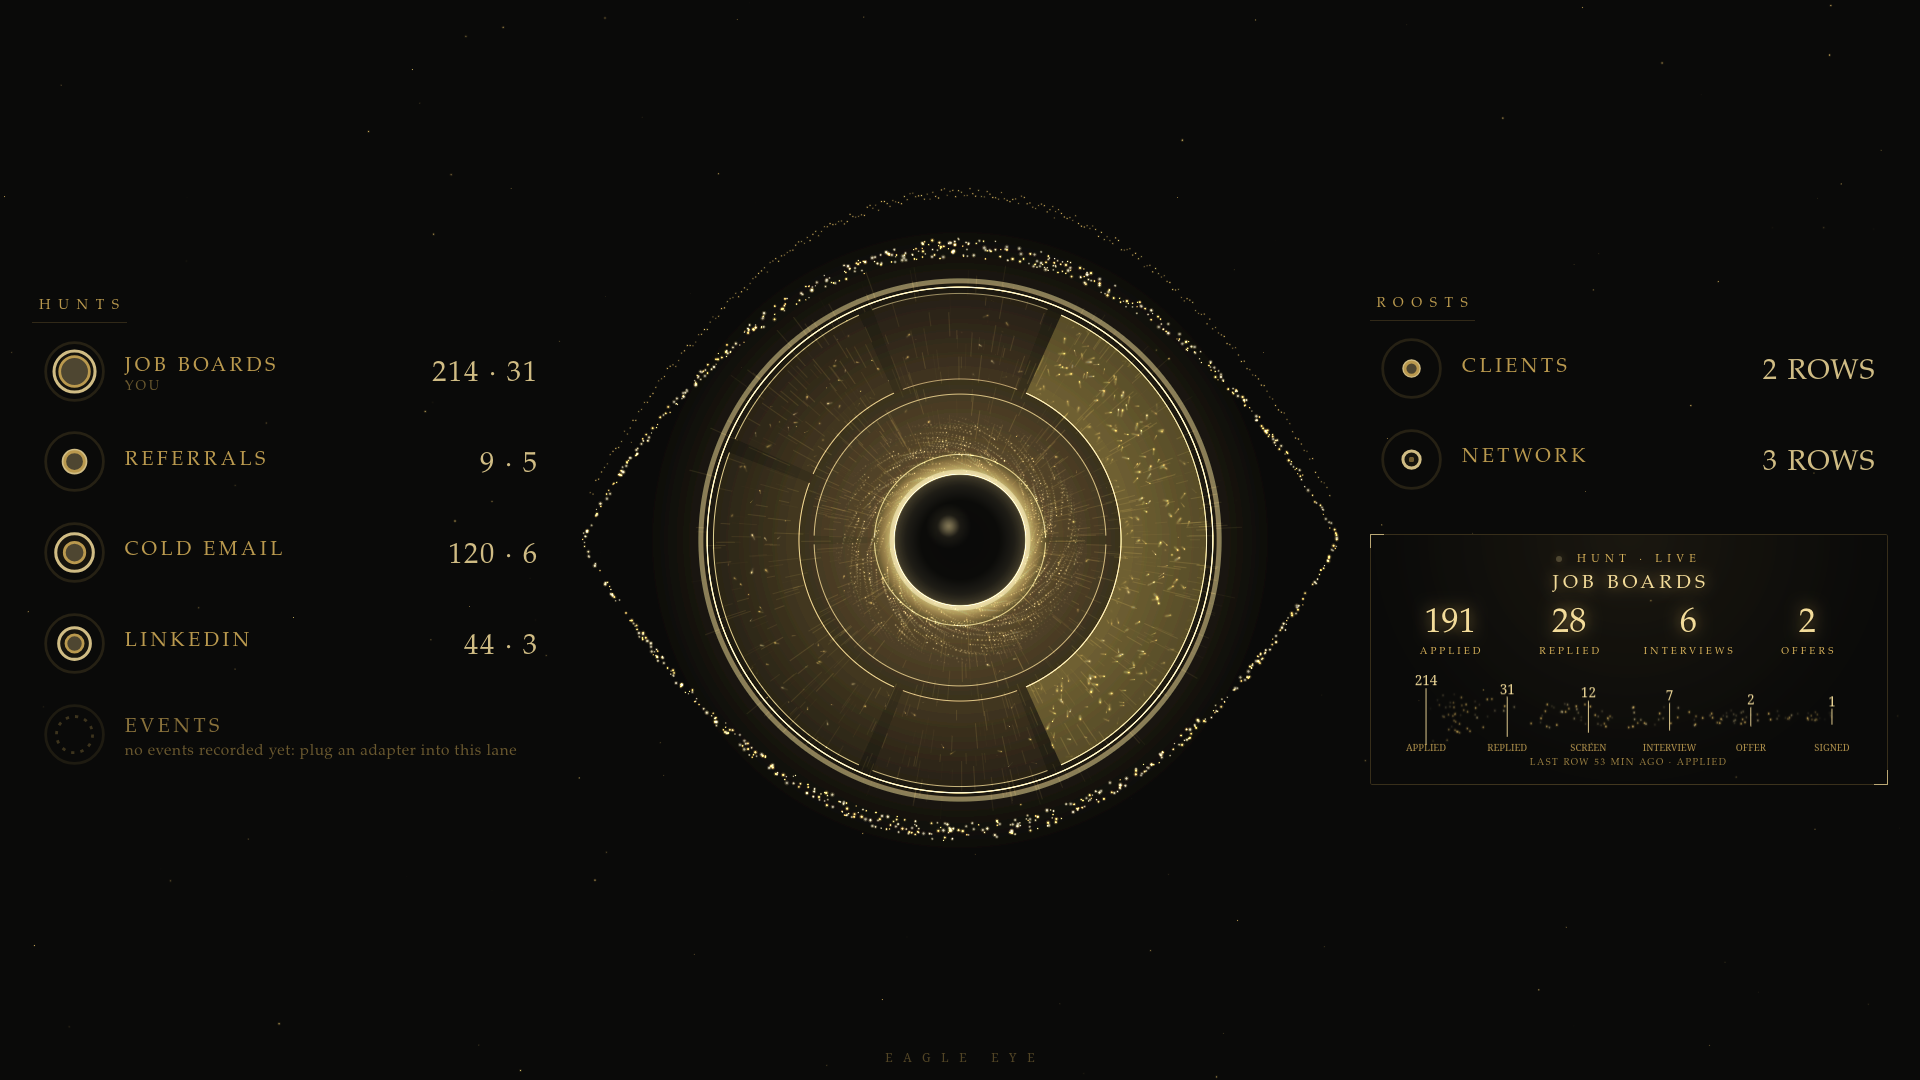
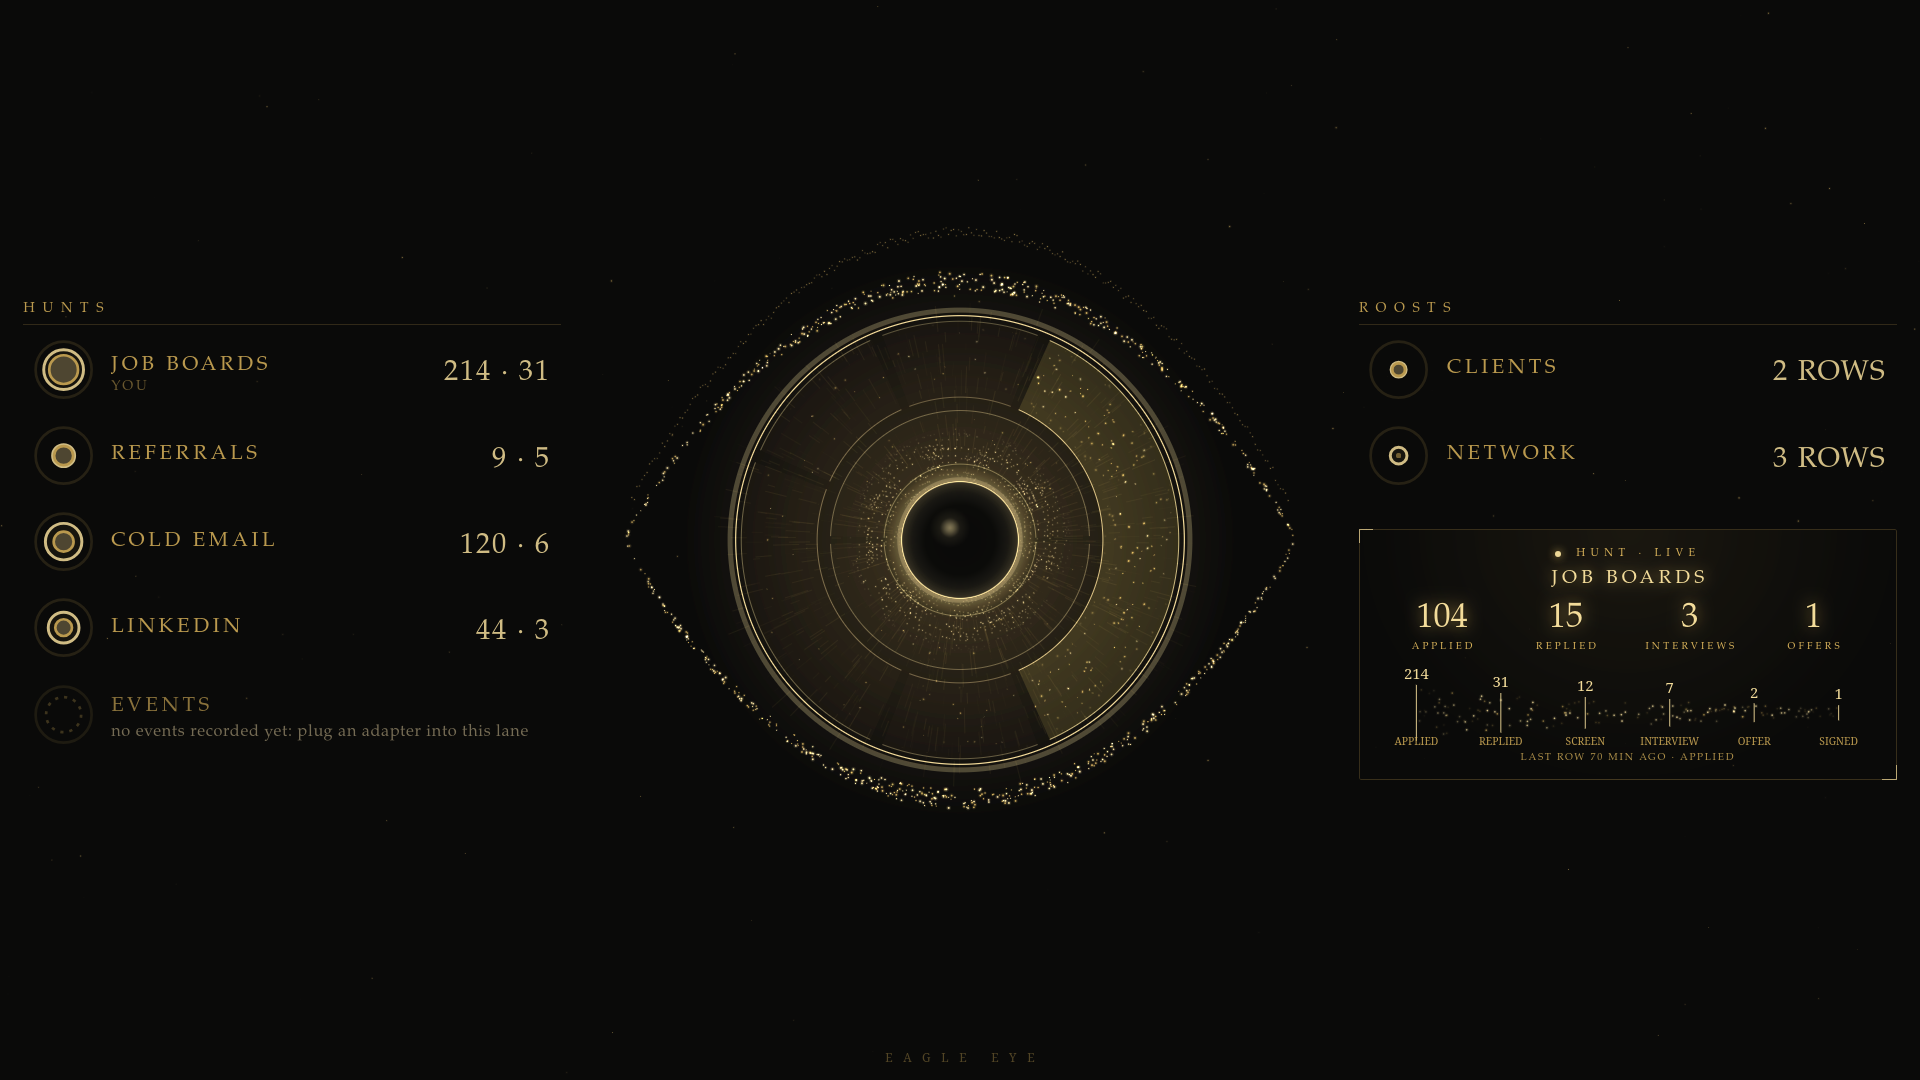
Layout v2: lanes as rows at every size, compact eye over the lanes on narrow screens, type floors, refit on font/text change

diff --git a/eagle-eye.js b/eagle-eye.js
@@ -139,26 +139,34 @@ style.textContent = `
 #e2 #dock{position:fixed;left:2vmin;bottom:2vmin;z-index:22;display:none;max-width:min(94vw,40em);font-size:max(11px,var(--u));text-align:left}
 #e2 #dock .nodesk{background:rgba(10,10,9,.8);padding:.6em 1em;border:1px solid rgba(217,179,91,.25)}
 #e2 #stg.dimmed{opacity:.3;transition:opacity .3s}
-/* ---- v2: wide = HUNTS left panel, ROOSTS + live card right panel, eye in the room between ---- */
+/* ---- v2 layout ---- */
 #e2 #eyebox{position:fixed;pointer-events:none;visibility:hidden}
 #e2 #gr{display:none}
-#e2.wide #gl{left:var(--pi);right:auto;top:0;bottom:0;height:auto;width:var(--pw);padding:var(--pv) 0;align-items:stretch;justify-content:center;gap:1.6em}
-#e2.wide #gr{display:flex;right:var(--pi);left:auto;top:0;bottom:0;width:var(--pw);padding:var(--pv) 0;flex-direction:column;align-items:stretch;justify-content:center;gap:1.8em}
-#e2.wide #lv{display:none}
-#e2.wide .grp{gap:.5em}
-#e2.wide .grp h3{font-size:.95em;letter-spacing:.55em;opacity:.85;padding-bottom:.55em;border-bottom:1px solid rgba(217,179,91,.22)}
-#e2.wide .row{gap:.15em;align-items:stretch}
 #e2 .card,#e2 .gly{box-sizing:border-box}
-#e2 .age{font-size:.62em;letter-spacing:.18em;text-transform:uppercase;color:var(--gold);opacity:.7;margin-top:.55em;text-align:center;min-height:1.2em}
-#e2.wide .gly{font-size:var(--gf);gap:1em;padding:.5em .6em;width:auto;align-items:center;border-radius:2px;transition:opacity .3s,filter .3s,background .3s}
-#e2.wide .gly:hover,#e2.wide .gly.on{background:rgba(217,179,91,.07)}
-#e2.wide .gly svg{width:3.1em;height:3.1em}
-#e2.wide .gly .gt{max-width:none;flex:1;display:grid;grid-template-columns:1fr auto;column-gap:1em;align-items:baseline;letter-spacing:.18em}
-#e2.wide .gly i.ag{grid-column:1;grid-row:2}
-#e2.wide .gly small.num{grid-column:2;grid-row:1 / span 2;align-self:center;font-size:1.45em;letter-spacing:.06em;color:var(--pale);opacity:1;font-variant-numeric:tabular-nums;white-space:nowrap}
-#e2.wide .gly small.why{grid-column:1 / span 2;-webkit-line-clamp:2}
+#e2 .age{font-size:max(.62em,10px);letter-spacing:.18em;text-transform:uppercase;color:var(--gold);opacity:.8;margin-top:.55em;text-align:center;min-height:1.2em}
+#e2.rows .grp{align-items:stretch;width:100%;gap:.45em;min-width:0}
+#e2.rows .grp h3{font-size:max(.95em,11px);letter-spacing:.55em;opacity:.85;padding-bottom:.5em;border-bottom:1px solid rgba(217,179,91,.22);text-align:left;text-indent:0}
+#e2.rows .row{flex-direction:column;flex-wrap:nowrap;align-items:stretch;gap:.1em;width:100%}
+#e2.rows .gly{flex-direction:row;font-size:var(--gf);gap:.9em;padding:.42em .5em;width:auto;align-items:center;text-align:left;border-radius:2px;letter-spacing:.18em;transition:opacity .3s,filter .3s,background .3s}
+#e2.rows .gly:hover,#e2.rows .gly.on{background:rgba(217,179,91,.07)}
+#e2.rows .gly svg{width:2.9em;height:2.9em}
+#e2.rows .gly .gt{max-width:none;flex:1;min-width:0;display:grid;grid-template-columns:1fr auto;column-gap:1em;align-items:baseline}
+#e2.rows .gly i.ag{grid-column:1;grid-row:2;font-size:max(.68em,10px)}
+#e2.rows .gly small.num{grid-column:2;grid-row:1 / span 2;align-self:center;font-size:1.4em;letter-spacing:.06em;color:var(--pale);opacity:1;font-variant-numeric:tabular-nums;white-space:nowrap}
+#e2.rows .gly small.why{grid-column:1 / span 2;-webkit-line-clamp:3;font-size:max(.8em,11px);opacity:.9;color:#c9b88f}
+#e2.rows.narrow .gly .gt{grid-template-columns:1fr}
+#e2.rows.narrow .gly small.num{grid-column:1;grid-row:3;font-size:1.15em;align-self:start}
+#e2.rows.narrow .gly small.why{grid-column:1}
+#e2.rows.narrow .gly{gap:.6em;padding:.3em .3em}
+#e2.rows.narrow .gly svg{width:2.3em;height:2.3em}
+#e2.wide #gl{left:var(--pi);right:auto;top:0;bottom:0;height:auto;width:var(--pw);padding:var(--pt) 0 0;align-items:stretch;justify-content:flex-start;gap:1.6em}
+#e2.wide #gr{display:flex;right:var(--pi);left:auto;top:0;bottom:0;width:var(--pw);padding:var(--pt) 0 0;flex-direction:column;align-items:stretch;justify-content:flex-start;gap:1.8em}
+#e2.wide #lv{display:none}
 #e2.wide #gr .card{width:100%;font-size:1.02em;margin:0}
 #e2.wide #gr .card .nums b{font-size:2.3em}
+#e2.tall #gl{top:var(--gt);bottom:var(--gb);height:auto;flex-direction:row;align-items:flex-start;justify-content:center;gap:var(--gg);padding:0 var(--gp)}
+#e2.tall #gl .grp{flex:1 1 0;max-width:30em}
+#e2.tall #lv{top:auto;bottom:0;height:auto;padding:0 var(--gp) 2.4em}
 `;
 document.head.appendChild(style);
 
@@ -238,7 +246,7 @@ async function pull(){
     const r = await fetch(FEED+(FEED.includes('?')?'&':'?')+Date.now(), {cache:'no-store'});
     const d = await r.json();
     for(const [k] of KEY4) if(d[k]!==data[k]) { const el=numEls[k]; if(el){el.classList.add('flash'); setTimeout(()=>el.classList.remove('flash'),900);} }
-    data = d; paintAge(); updateGlyphs(); if(liftFor>=0) lift.innerHTML=liftHtml(PIPES[liftFor]); refreshPanel();
+    data = d; paintAge(); updateGlyphs(); refit(); if(liftFor>=0) lift.innerHTML=liftHtml(PIPES[liftFor]); refreshPanel();
     const s = (d.proposals_sent||0)+6*(d.proposals_answered||0)+8*(d.videos_sent||0)+25*(d.contracts||0)+40*(d.paid_events||0);
     liveTarget = Math.min(1, 0.4+Math.log10(1+s)/3.2);
   }catch(e){}
@@ -253,34 +261,53 @@ const spGold=sprite('217,179,91',32), spPale=sprite('243,220,154',32);
 let W,H,DPR,cx,cy,R,lidW,wide,rot=[0,0];
 function resize(){
   DPR=Math.min(devicePixelRatio||1,2); W=innerWidth; H=innerHeight;
-  cv.width=W*DPR; cv.height=H*DPR; cx=W/2; cy=H/2;
+  cv.width=W*DPR; cv.height=H*DPR; cx=W/2;
   wide = W/H > 1.3 && W >= 900;
-  const u = Math.max(10, Math.min(W,H)/74);
+  const u = Math.max(11, Math.min(W,H)/74);
+  root.style.setProperty('--u', u+'px');
+  const narrow = !wide && W < 700;
+  root.className = (wide?'wide':'tall')+' rows'+(narrow?' narrow':'');
+  let gf = wide ? Math.min(1.4, Math.max(1.05, H/(50*u))) : (narrow ? 1.1 : 1.2);
+  const setGf = ()=>root.style.setProperty('--gf', gf+'em');
   if(wide){
-    const pw = Math.max(25*u, Math.min(W*.27, 36*u)), gut = 2.2*u;
+    const gut = 3*u, pw = Math.max(25*u, Math.min(W*.28, 46*u));
     lidW = Math.max(60, (W - 2*pw - 4*gut)/2);
-    R = Math.min(H*.30, lidW/1.5); lidW = Math.min(lidW, R*1.5);
-    const pi = Math.max(gut, (W/2 - lidW - gut - pw) * .55);
+    R = Math.min(H*.31, lidW/1.5); lidW = Math.min(lidW, R*1.5);
+    cy = H/2;
+    const pi = Math.max(1.6*u, (W/2 - lidW - gut - pw) * .5);
     root.style.setProperty('--pw', pw+'px'); root.style.setProperty('--pi', pi+'px');
-    root.style.setProperty('--pv', (2.4*u)+'px'); root.style.setProperty('--gf', (Math.min(1.35, Math.max(1, H/(52*u))))+'em');
     if(grpH.parentNode!==glA) glA.appendChild(grpH);
     if(grpR.parentNode!==glB) glB.appendChild(grpR);
     if(liveCard.parentNode!==glB) glB.appendChild(liveCard);
+    for(let k=0;k<8;k++){ setGf(); root.style.setProperty('--pt','0px');
+      const hA=grpH.offsetHeight, hB=grpR.offsetHeight+liveCard.offsetHeight+1.8*u*1.02, hh=Math.max(hA,hB);
+      if(hh <= H-4*u || gf<=.8){ root.style.setProperty('--pt', Math.max(2*u,(H-hh)/2)+'px'); break; }
+      gf -= .08; }
   } else {
-    R=Math.min(H*.30, W*.19); lidW=Math.min(W*.31, R*1.75);
+    root.style.setProperty('--gp', (narrow?1:1.6)*u+'px'); root.style.setProperty('--gg', (narrow?1.2:2.4)*u+'px');
     if(grpH.parentNode!==glA || grpR.parentNode!==glA){ glA.appendChild(grpH); glA.appendChild(grpR); }
     if(liveCard.parentNode!==lvBox) lvBox.appendChild(liveCard);
+    let rf = narrow ? .16 : .17;
+    for(let k=0;k<10;k++){ setGf();
+      R = Math.min(W*.2, H*rf); lidW = Math.min(W*.4, R*1.75); cy = R*1.42 + 1.4*u;
+      const top = cy + R*1.42 + 1.2*u, bot = lvBox.offsetHeight + .8*u;
+      root.style.setProperty('--gt', top+'px'); root.style.setProperty('--gb', bot+'px');
+      const need = Math.max(grpH.offsetHeight, grpR.offsetHeight), room = H - top - bot;
+      if(need <= room) break;
+      if(rf > .12) rf -= .015; else if(gf > .85) gf -= .06; else break; }
   }
-  root.className = wide?'wide':'tall';
-  Object.assign(eyeBox.style, {left:(cx-lidW-8)+'px', top:(cy-R*1.42)+'px', width:(2*lidW+16)+'px', height:(R*2.84)+'px'});
   root.style.setProperty('--u', u+'px');
   root.style.setProperty('--ex', lidW+'px');
   root.style.setProperty('--ey', (R*1.44)+'px');
+  Object.assign(eyeBox.style, {left:(cx-lidW-8)+'px', top:(cy-R*1.42)+'px', width:(2*lidW+16)+'px', height:(R*2.84)+'px'});
   const face = wide ? 0 : Math.PI/2;
   rot[0] = face - (PIPES[LIVE].a0+PIPES[LIVE].aw/2);
   { const r1=PIPES.find(p=>p.ring===1); rot[1] = -Math.PI/2 + (r1?r1.aw/2:0); }
 }
 addEventListener('resize', resize); resize();
+let fitSig = '';
+function refit(){ const s = root.querySelector('#gl').textContent + glB.textContent; if(s!==fitSig){ fitSig=s; resize(); } }
+if(document.fonts && document.fonts.ready) document.fonts.ready.then(()=>{ fitSig=''; refit(); });
 
 const rnd=(a,b)=>a+Math.random()*(b-a);
 const segMid=(p)=>rot[p.ring]+p.a0+p.aw/2;
@@ -338,7 +365,7 @@ function drawStream(t,dt){
   const w=stCv.clientWidth,h=stCv.clientHeight; if(!w||!h) return;
   if(stCv.width!==Math.round(w*DPR)||stCv.height!==Math.round(h*DPR)){stCv.width=Math.round(w*DPR);stCv.height=Math.round(h*DPR);}
   sctx.setTransform(DPR,0,0,DPR,0,0); sctx.clearRect(0,0,w,h);
-  const n=STAGES.length, pad=w*.07, X=s=>pad+s*(w-2*pad)/(n-1), my0=h*.58, fs=Math.max(8,w/40);
+  const n=STAGES.length, pad=w*.07, X=s=>pad+s*(w-2*pad)/(n-1), my0=h*.6, fs=Math.max(10,w/38);
   const v=STAGES.map(([k])=>data[k]||0), vmax=Math.max(1,...v), lm=Math.log(1+vmax);
   const half=s=>{const i=Math.min(n-1,Math.floor(s)),f=s-i,a=Math.log(1+v[i])/lm,b=Math.log(1+v[Math.min(n-1,i+1)])/lm;return (.06+.94*(a+(b-a)*f))*h*.3;};
   sctx.globalCompositeOperation='lighter';
@@ -360,9 +387,10 @@ function drawStream(t,dt){
     const x=X(i);
     sctx.globalAlpha=.9; sctx.strokeStyle='#f3dc9a'; sctx.lineWidth=1; sctx.beginPath(); sctx.moveTo(x,my0-half(i)-3); sctx.lineTo(x,my0+half(i)+3); sctx.stroke();
     sctx.fillStyle='#f3dc9a'; sctx.font=`400 ${fs*1.15}px Cinzel,Georgia,serif`; sctx.globalAlpha=1;
-    sctx.fillText(String(v[i]),x,my0-half(i)-6);
-    sctx.fillStyle='#d9b35b'; sctx.font=`300 ${fs*.8}px Cinzel,Georgia,serif`; sctx.globalAlpha=.8;
-    sctx.fillText(STAGES[i][1].toUpperCase(),x,h-1);
+    sctx.fillText(String(v[i]),x,my0-half(i)-9);
+    sctx.fillStyle='#d9b35b'; const lt=STAGES[i][1].toUpperCase(), slot=(w-2*pad)/(n-1)*.94; let lf=Math.max(10,fs*.8); sctx.font=`300 ${lf}px Cinzel,Georgia,serif`;
+    const lw=sctx.measureText(lt).width; if(lw>slot){ lf=Math.max(9,lf*slot/lw); sctx.font=`300 ${lf}px Cinzel,Georgia,serif`; } sctx.globalAlpha=.85;
+    sctx.fillText(lt,x,h-1);
   }
 }
 
@@ -371,7 +399,7 @@ function sliceXY(p){ const m=segMid(p), rr=R*(p.ring?.46:.81)*1; return [cx+Math
 const deskHtml = p => { const d=DOORS[p.hk||p.rk]||{}, who=String(d.agent||'?').toUpperCase();
   return d.url
   ? `<a class="chip door" href="${esc(d.url)}" target="desk-${esc(p.id)}" title="${esc(d.where||'')}"><span>GO TO</span><code>${esc(who)}&#39;S ${d.kind==='desk'?'DESK':'VIEW'}</code><em>&rsaquo;</em></a>`
-  : `<div class="nodesk"><b>GO TO THE DESK</b>${esc(who)} &middot; ${esc(d.where||'no desk and no view declared for this lane')}</div>`; };
+  : `<div class="nodesk"><b>GO TO THE DESK</b>${esc(who)} &middot; no desk and no view declared for this lane</div>`; };
 function hashFor(p){ return p.live?'#hero':'#pipe-'+p.pid; }
 function goHero(p,instant){
   if(route!=='home'||busy) return; route='hero'; busy=true; curP=p;
